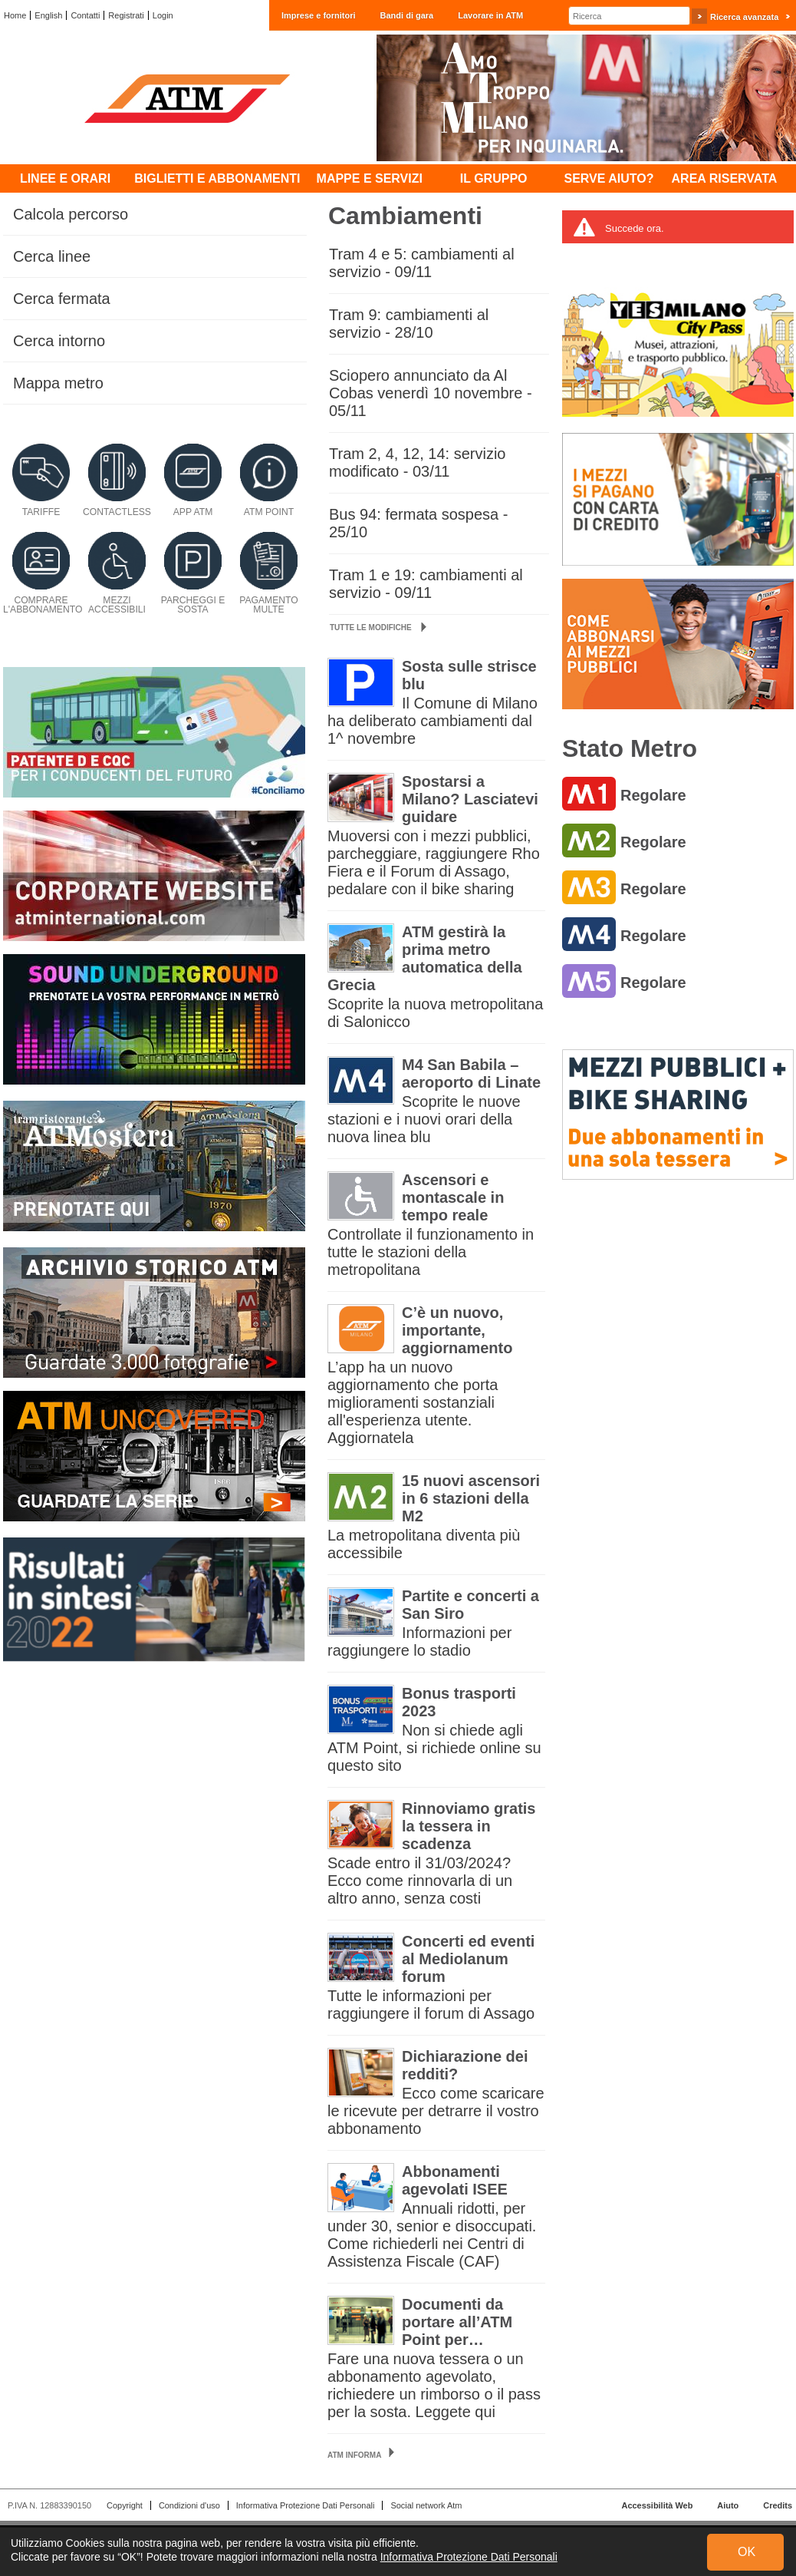
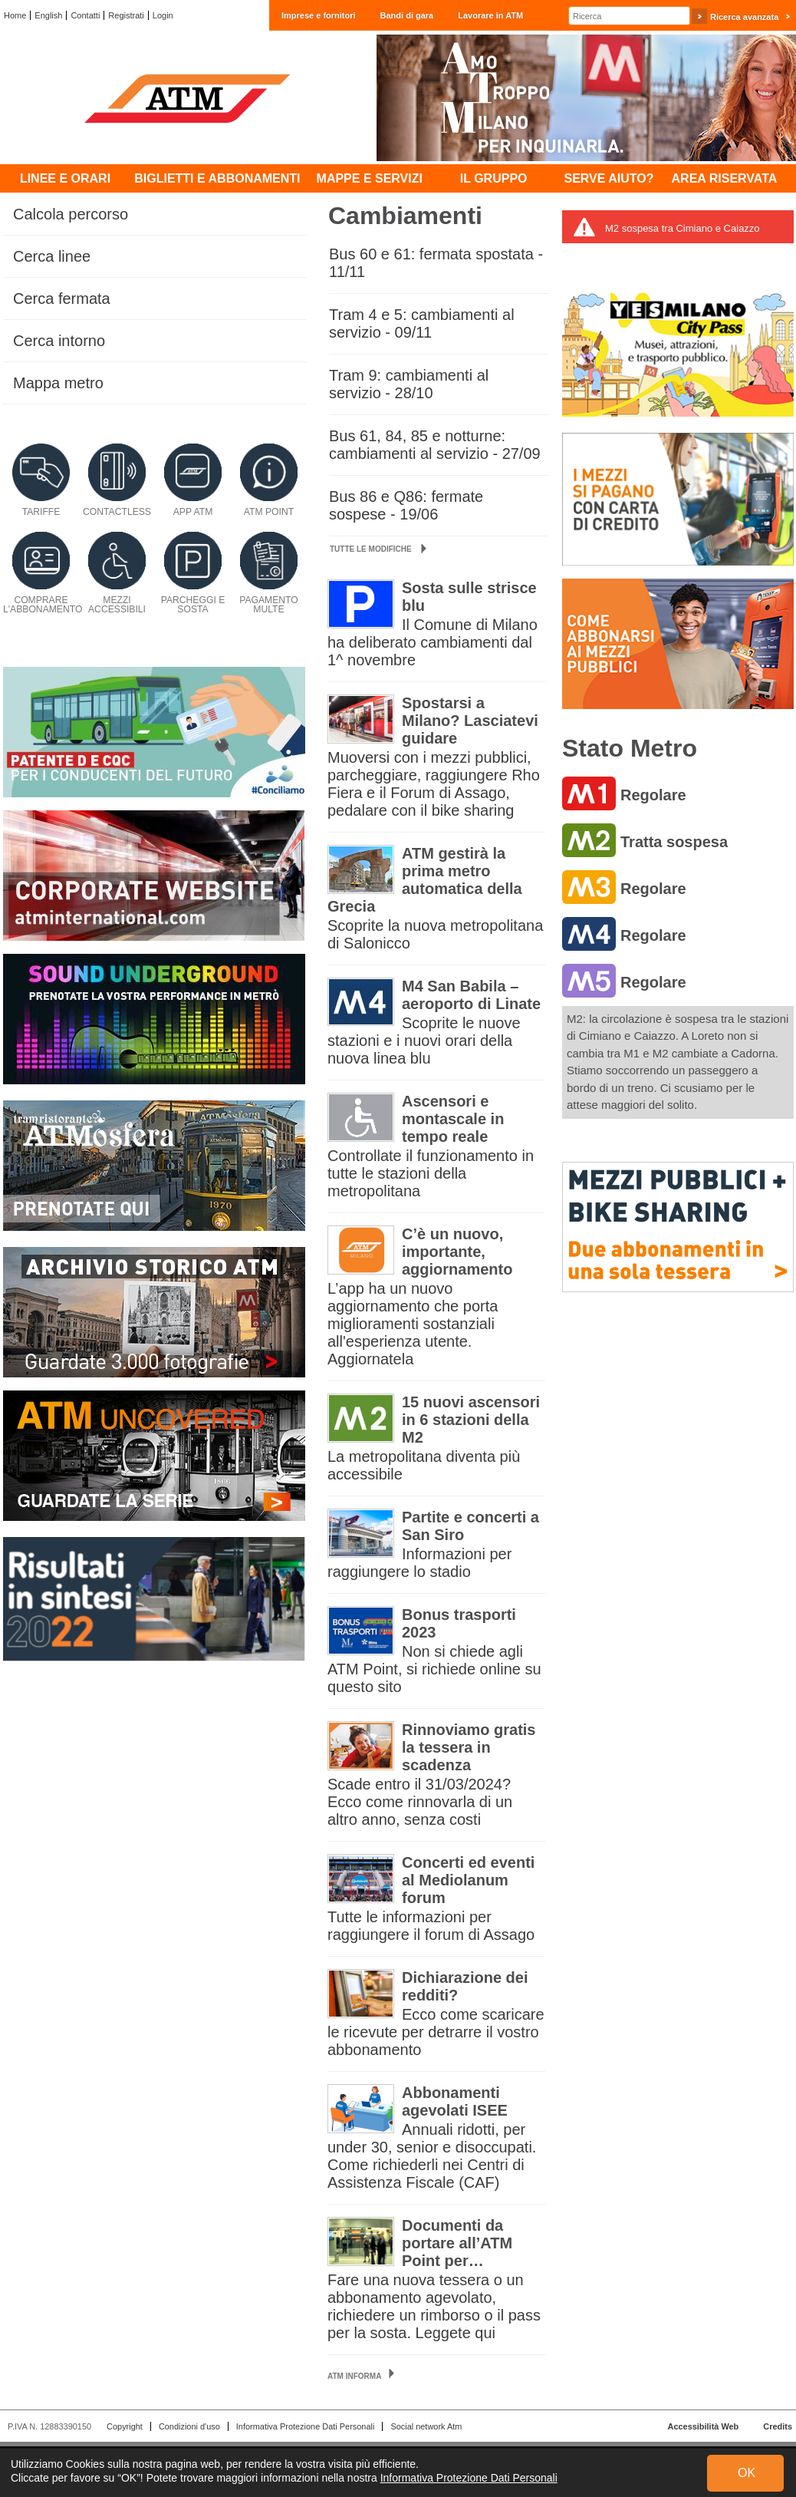
including more alert messages

diff --git a/main.js b/main.js
@@ -19,6 +19,8 @@ var alertMessage = '';
 
 var alertLine = '';
 
+var alertMessages = [];
+
 var lastUpdate = '';
 
 var metroLines = [
@@ -81,8 +83,35 @@ async function run() {
         newAlertFlag = true;
         newAlertMessage = true;
     }
+    /* 
+    <div id="Alert_m_testo" class="Alert_m_testo"><div class="content">
+        <p>🚦&nbsp;<strong>Bus 60 e 61</strong>. Fanno capolinea provvisorio in Largo Augusto (insieme alle linee 84 e 85). Non fermano in via Baracchini e via Larga (cedimento stradale in via Baracchini).</p>
+
+        <p>🚦&nbsp;<strong>Bus 727. </strong>Non fa servizio tra via Manzoni/Marconi e il capolinea Stazione di Cormano. (semaforo guasto a Cormano)</p>
+    </div></div>
+        */
+        var alertMessagesLocal = await page.evaluate(() => {
+            var messages = [];
+            var alertMessages = document.getElementsByClassName('Alert_m_testo')[0].getElementsByTagName('p');
+            for (var i = 0; i < alertMessages.length; i++) {
+                messages.push(alertMessages[i].innerHTML);
+            }
+            return messages;
+        });
+        //check if alertMessagesLocal is equal to alertMessages, if not, send alert
+        for (var i = 0; i < alertMessagesLocal.length; i++) {
+            if (alertMessagesLocal[i] != alertMessages[i]) {
+                console.log(chalk.red('NEW ALERT MESSAGE: ') + chalk.blue(alertMessagesLocal[i]));
+                alertMessages = alertMessagesLocal;
+                newAlertFlag = true;
+                newAlertMessage = true;
+                break;
+            }
+        }  
     } catch (error) {
-        console.log(chalk.gray('No alert'));
+        console.log(chalk.gray('No alert!' + error + ' '));
+        alertMessage = '';
+        alertMessages = [];
     }
    
 
@@ -171,6 +200,10 @@ function newAlert() {
     message += '\n\n';
     if (newAlertMessage) {
         message += "📢 Nuovo avviso: \n" + alertMessage;
+        message += '\n';
+        alertMessages.forEach(alert => {
+            message += removeTags(alert) + '\n';
+        });
         message += '\n\n';
     }
     if (newAlertLineFlag) {
@@ -210,7 +243,7 @@ function newAlert() {
         message += "🚇 Metro invariate dallo scorso update \n\n";
     }
     if (newAlertLineMessageFlag) {
-        message += "AVVISO METRO: \n" + alertLine;
+        message += "AVVISO METRO: \n" + removeTags(alertLine);
         message += '\n\n';
     }
 
@@ -229,3 +262,12 @@ var job = new CronJob('*/5 * * * *', function() {
     run();
 }, null, true, 'Europe/Rome');
 
+
+function removeTags(str) {
+    if ((str===null) || (str===''))
+        return false;
+    else
+        str = str.toString();
+    //also remove &nbsp;
+    return str.replace( /(<([^>]+)>)/ig, '').replace(/&nbsp;/ig, '');
+ }

diff --git a/README.MD b/README.MD
@@ -6,3 +6,10 @@
 
 <span id="ctl00_SPWebPartManager1_g_9b06731f_460e_4533_a288_117c67e46987_ctl00_StatusLinee_lb_Mex" class="StatusLinee_Mex_Testo">M5 è in servizio tra Bignami e Zara (sciopero), l'intera linea riapre alle 15. Le altre linee sono aperte.
 </span>
+
+
+<div id="Alert_m_testo" class="Alert_m_testo"><div class="content">
+<p>🚦&nbsp;<strong>Bus 60 e 61</strong>. Fanno capolinea provvisorio in Largo Augusto (insieme alle linee 84 e 85). Non fermano in via Baracchini e via Larga (cedimento stradale in via Baracchini).</p>
+
+<p>🚦&nbsp;<strong>Bus 727. </strong>Non fa servizio tra via Manzoni/Marconi e il capolinea Stazione di Cormano. (semaforo guasto a Cormano)</p>
+</div></div>
